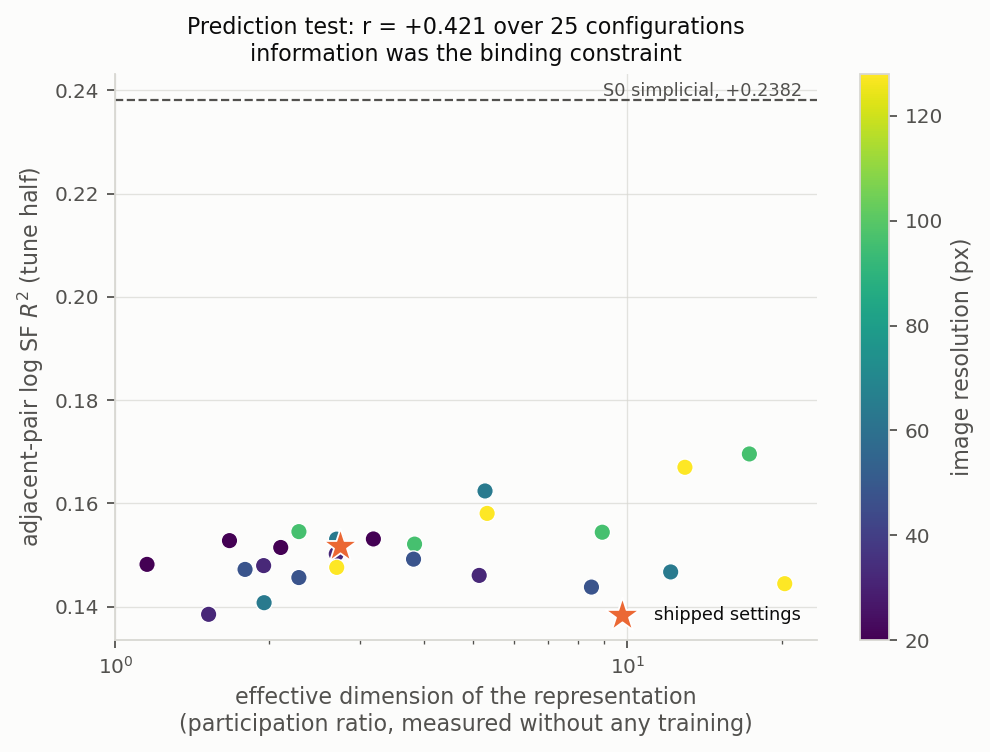
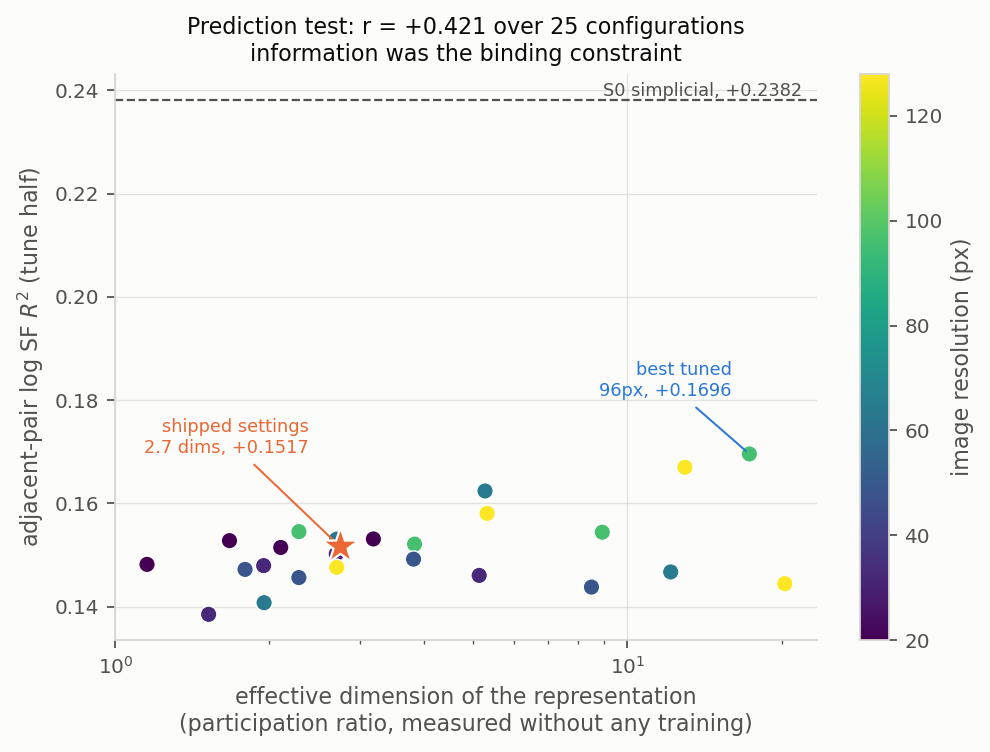
Fix a figure legend that rendered as a data point
The prediction figure showed two orange stars. Checked the data first -- 25 rows,
one anchor, correct effective dimension and adjR2 -- so it was not a merge bug.
The second star was the LEGEND: frameon=False puts a full-size star marker
inside the axes with text beside it, which is indistinguishable from a plotted
point, and it sat at an (eff_dim, adjR2) pair that belonged to no configuration.

Replaced with in-place annotations for both the shipped anchor and the best
tuned configuration, so every marker on the panel is data. The first placement
then collided with the x-axis label and was moved above-left into empty space.

This is the third figure defect in this study caused by matplotlib drawing
something that looks like data but is not (after the ladder label collisions and
the barh legend that rendered both swatches blue). Reading the rendered PNG
rather than trusting the code is what catches them.

diff --git a/automl/figures_topo.py b/automl/figures_topo.py
@@ -783,9 +783,17 @@ def _pi_prediction_panel(df: pd.DataFrame) -> None:
                     cmap="viridis", s=55, edgecolor="white", linewidth=0.6,
                     zorder=3)
     if len(anc):
-        ax.scatter(anc["eff_dim"], anc["adj_r2"], marker="*", s=260, color=FCNN,
-                   edgecolor="white", linewidth=0.8, zorder=5,
-                   label="shipped settings")
+        a = anc.iloc[0]
+        ax.scatter([a["eff_dim"]], [a["adj_r2"]], marker="*", s=300, color=FCNN,
+                   edgecolor="white", linewidth=1.0, zorder=6)
+        # Annotated in place rather than via a legend.  A frameless legend puts
+        # a full-size star marker inside the axes with text beside it, which
+        # reads as a data point -- it did, on the first render of this figure.
+        ax.annotate(f"shipped settings\n{a['eff_dim']:.1f} dims, {a['adj_r2']:+.4f}",
+                    xy=(a["eff_dim"], a["adj_r2"]),
+                    xytext=(-14, 40), textcoords="offset points",
+                    ha="right", va="bottom", fontsize=8, color=FCNN,
+                    arrowprops=dict(arrowstyle="-", color=FCNN, lw=0.9))
     ax.axhline(0.2382, color=INK2, ls="--", lw=1.0)
     ax.annotate("S0 simplicial, +0.2382", xy=(0.98, 0.2382),
                 xycoords=("axes fraction", "data"), ha="right", va="bottom",
@@ -797,8 +805,14 @@ def _pi_prediction_panel(df: pd.DataFrame) -> None:
     ax.set_ylabel("adjacent-pair log SF $R^2$ (tune half)")
     ax.grid(True, color=GRID, lw=0.6, alpha=0.7)
     ax.set_axisbelow(True)
-    if len(anc):
-        ax.legend(frameon=False, fontsize=8, loc="best")
+
+    # Mark the arm this has to reach, so the gap is legible rather than implied.
+    best = m.sort_values("adj_r2").iloc[-1]
+    ax.annotate(f"best tuned\n{best['resolution']:.0f}px, {best['adj_r2']:+.4f}",
+                xy=(best["eff_dim"], best["adj_r2"]),
+                xytext=(-8, 26), textcoords="offset points", ha="right",
+                fontsize=8, color=TOPO,
+                arrowprops=dict(arrowstyle="-", color=TOPO, lw=0.9))
 
     verdict = ("information was the binding constraint"
                if r > 0.3 else
